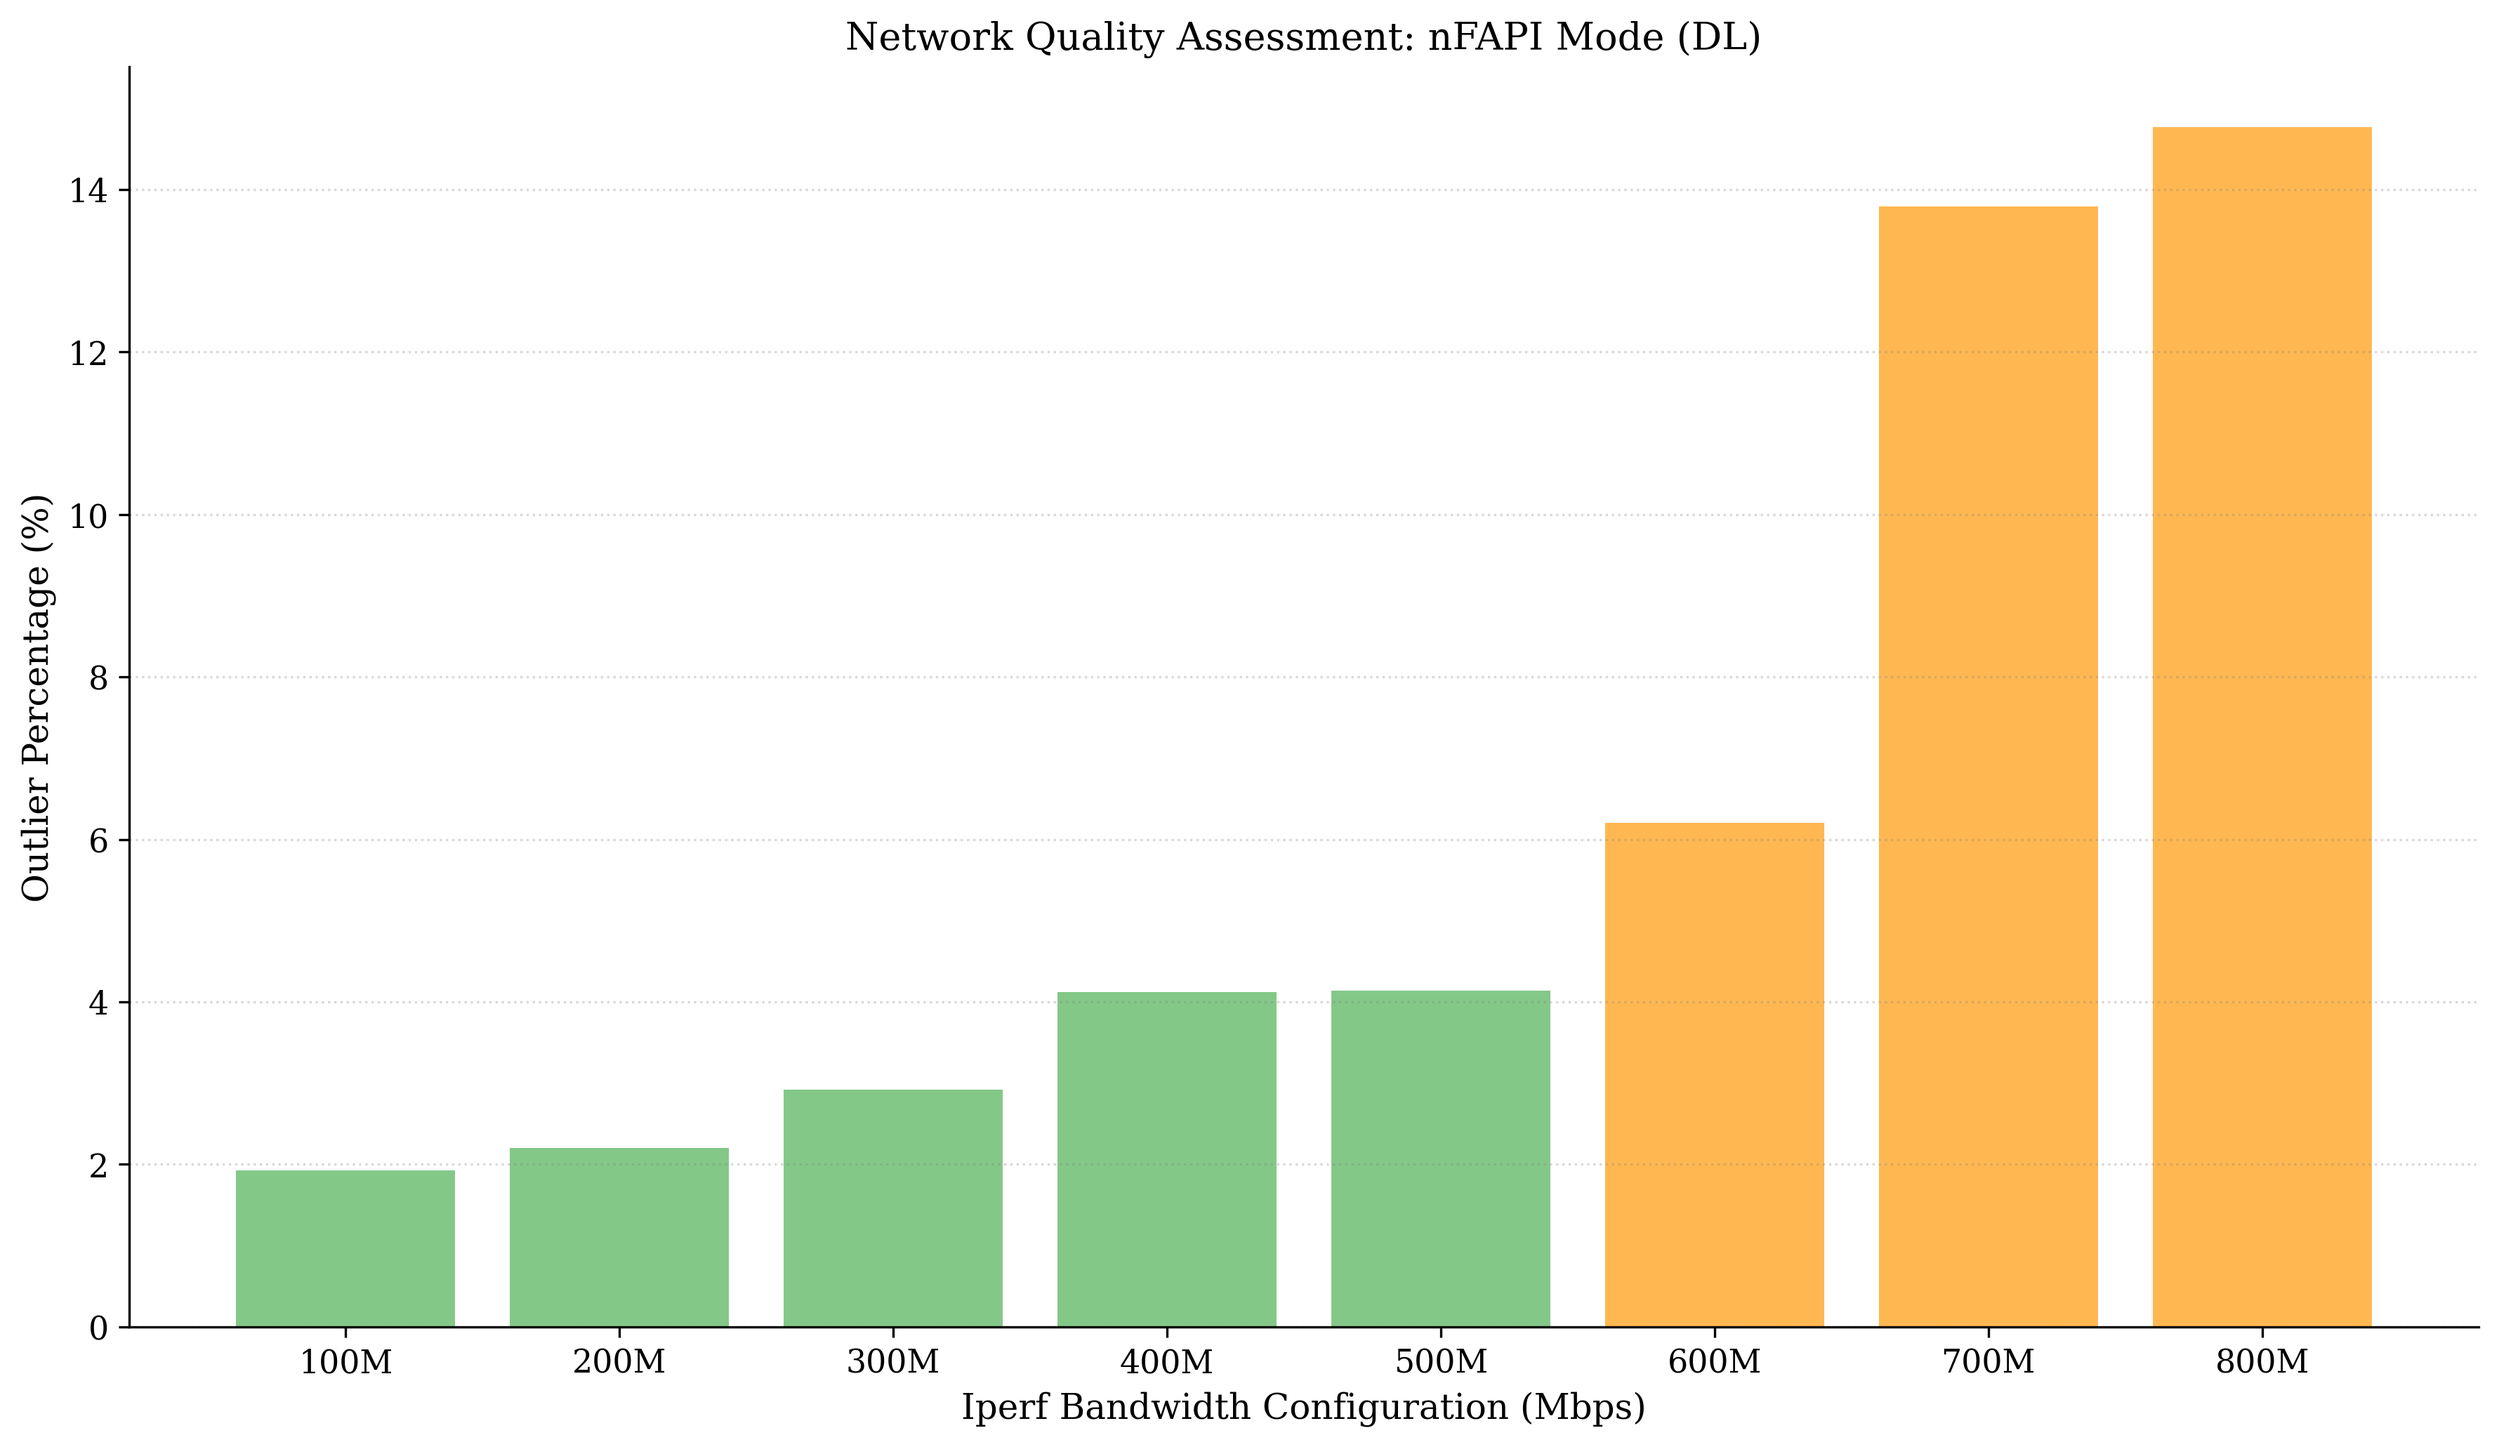
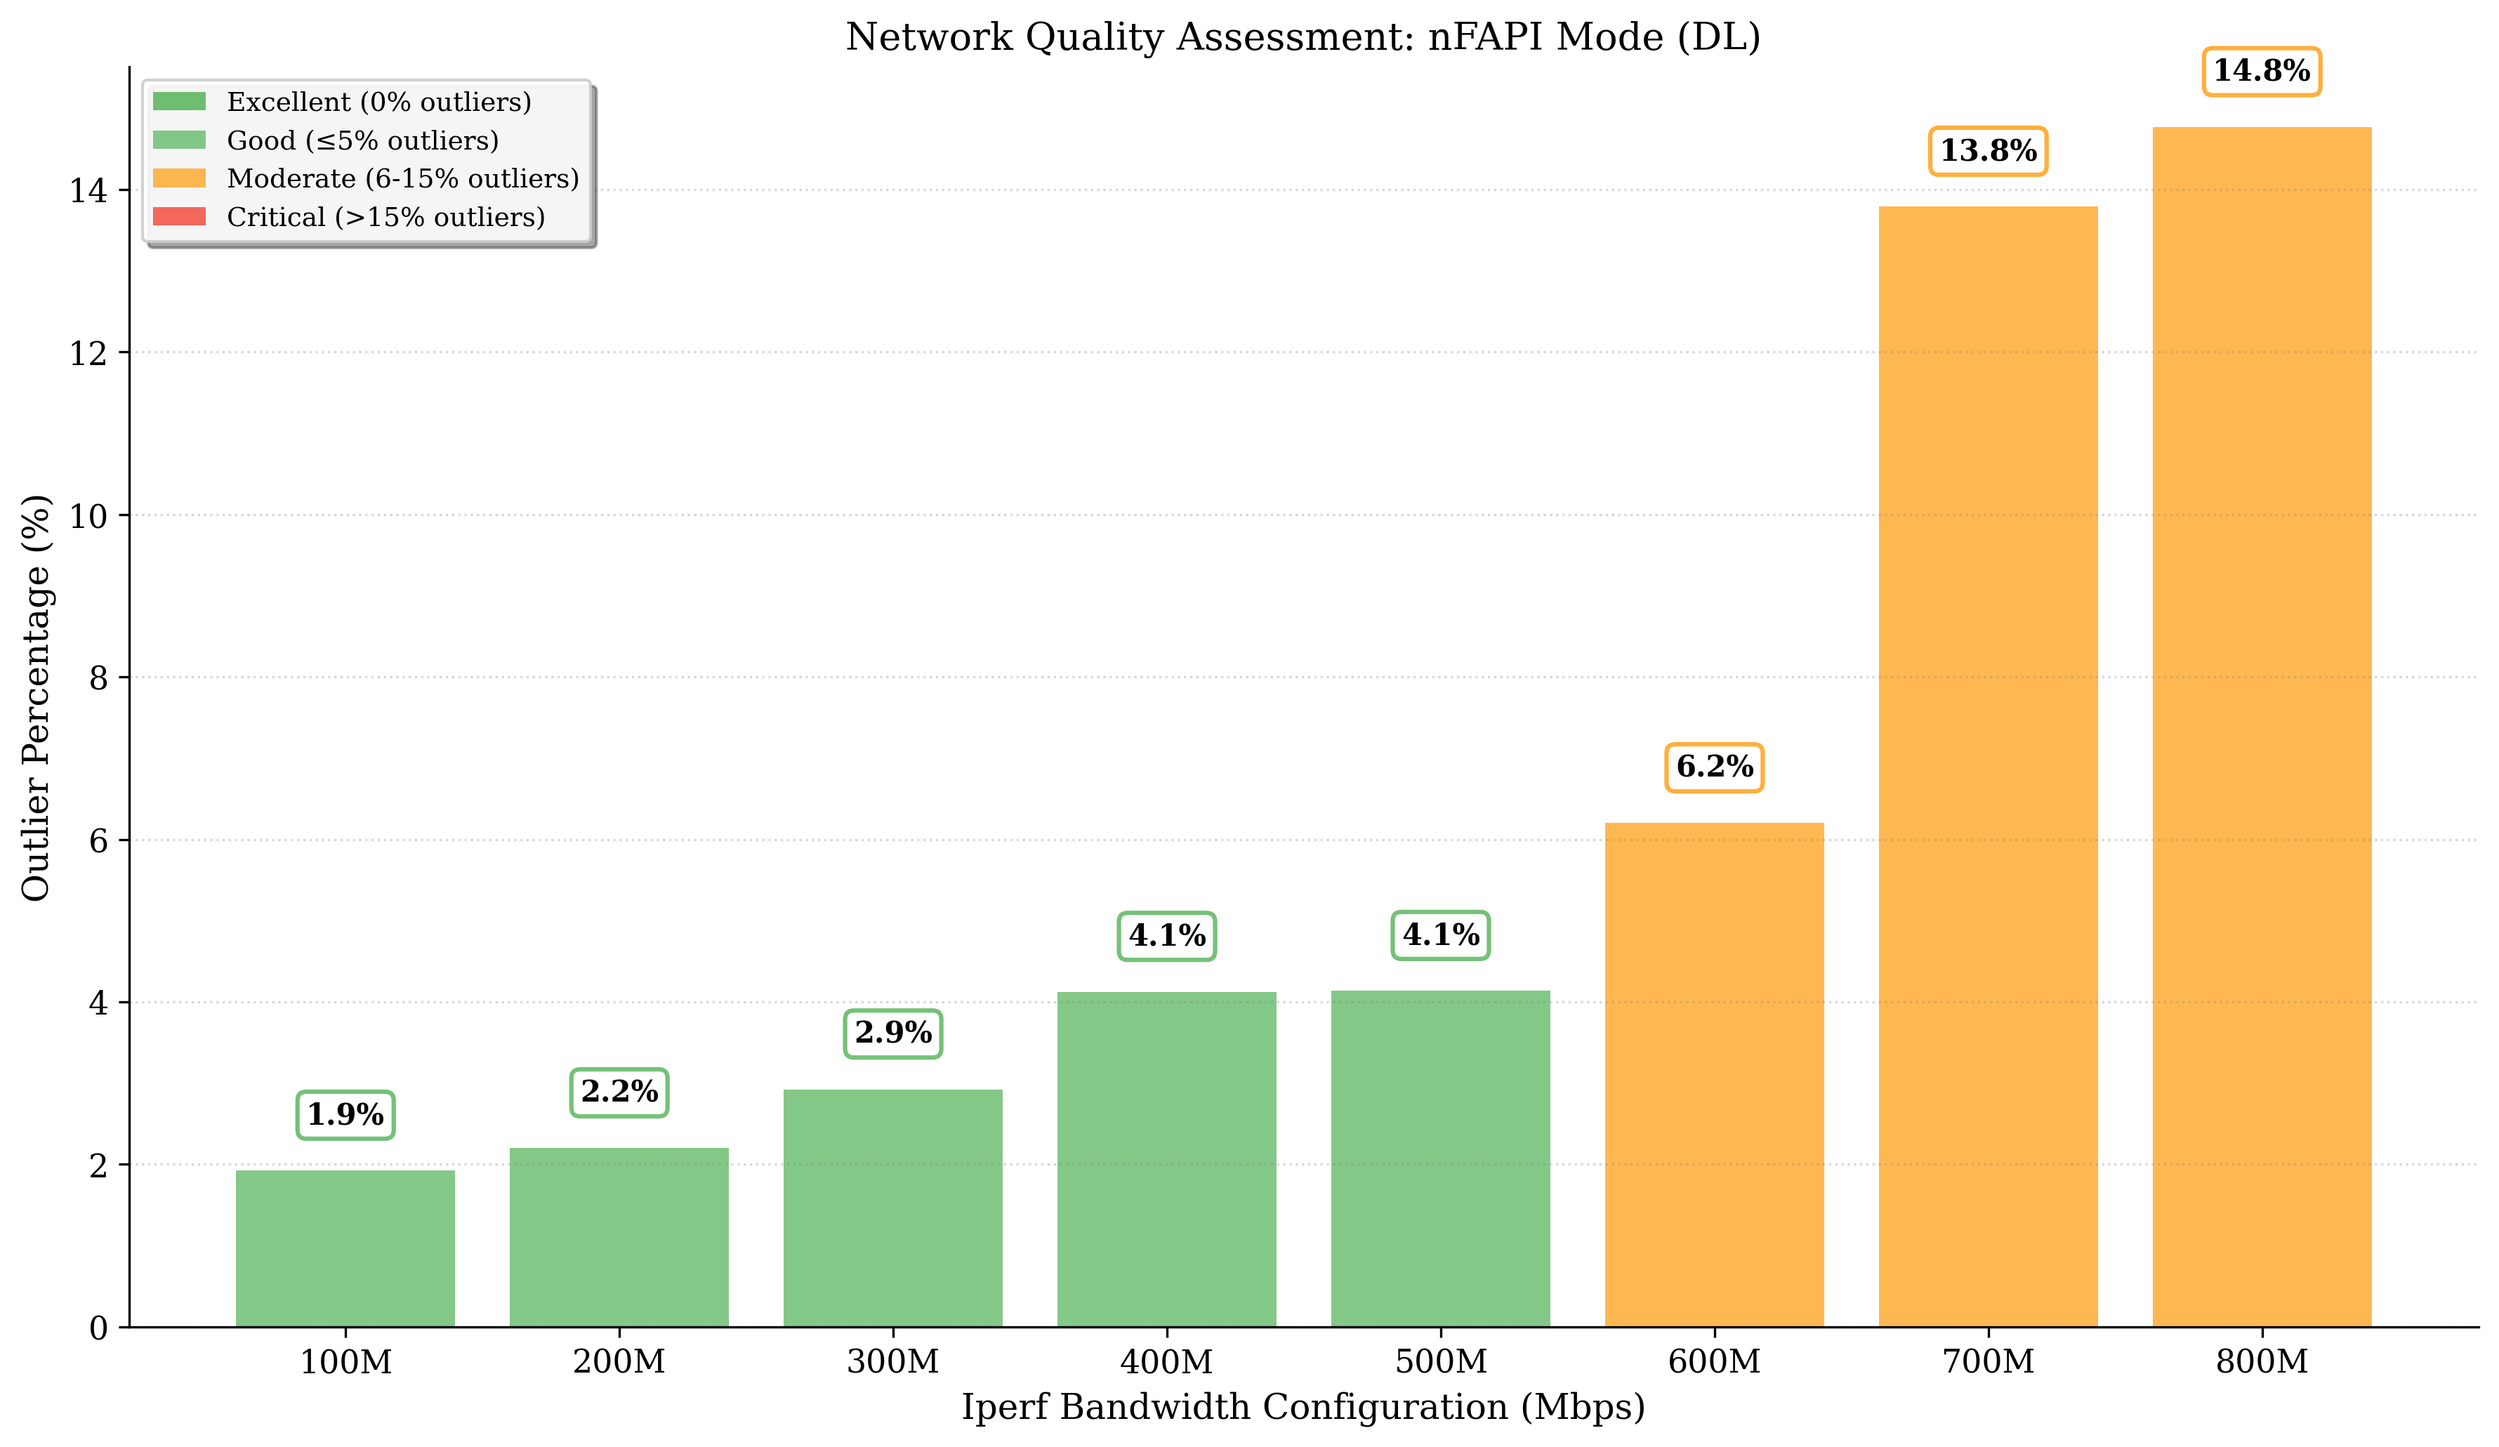
Refactor analysis scripts and update visualizations; remove outdated packet count analysis

diff --git a/scripts/analyze_ping_latency.py b/scripts/analyze_ping_latency.py
@@ -181,7 +181,27 @@ def create_quartile_analysis_plot(results_dict, output_dir, direction, mode):
         else:
             bar_colors.append('#F44336')    # Critical
     
-    plt.bar(labels, outlier_percentages, color=bar_colors, alpha=0.8)
+    bars = plt.bar(labels, outlier_percentages, color=bar_colors, alpha=0.8)
+    
+    # Add professional value labels on bars
+    for i, (bar, pct) in enumerate(zip(bars, outlier_percentages)):
+        if pct > 0:
+            label_y = min(pct + 1, 98)
+            ax.text(bar.get_x() + bar.get_width()/2, bar.get_height() + 0.5, f'{pct:.1f}%', 
+                   ha='center', va='bottom', fontsize=10, fontweight='bold',
+                   bbox=dict(boxstyle="round,pad=0.3", facecolor='white', 
+                            edgecolor=bar_colors[i], alpha=0.9, linewidth=1.5))
+    
+    # Add color legend for quality levels
+    from matplotlib.patches import Patch
+    legend_elements = [
+        Patch(facecolor='#4CAF50', alpha=0.8, label='Excellent (0% outliers)'),
+        Patch(facecolor='#66BB6A', alpha=0.8, label='Good (≤5% outliers)'),
+        Patch(facecolor='#FFA726', alpha=0.8, label='Moderate (6-15% outliers)'),
+        Patch(facecolor='#F44336', alpha=0.8, label='Critical (>15% outliers)')
+    ]
+    ax.legend(handles=legend_elements, loc='upper left', frameon=True, 
+             fancybox=True, shadow=True, framealpha=0.9)
     
     plt.xlabel('Iperf Bandwidth Configuration (Mbps)')
     plt.ylabel('Outlier Percentage (%)')
@@ -230,6 +250,63 @@ def find_ping_files(data_dir, bandwidth_val):
     
     return dl_file, ul_file
 
+def create_ping_summary_table(results_dict, output_dir, direction, mode):
+    """Create enhanced summary table for ping latency statistics"""
+    
+    plt.rcParams.update({
+        'font.family': 'serif',
+        'font.size': 11,
+        'axes.titlesize': 13,
+        'axes.labelsize': 12,
+    })
+    
+    fig, ax = plt.subplots(figsize=(14, 8))
+    ax.axis('off')
+    
+    bandwidths = sorted(results_dict.keys())
+    
+    # Create enhanced summary table with detailed breakdown
+    table_data = []
+    for bw in bandwidths:
+        stats = results_dict[bw]
+        row = [
+            f"{bw}M",
+            f"{stats['mean']:.2f}",
+            f"{stats['q2']:.2f}",  # Median
+            f"{stats['q1']:.2f}",
+            f"{stats['q3']:.2f}",
+            f"{stats['iqr']:.2f}",
+            f"{stats['std']:.2f}",
+            f"{stats['outlier_count']}"
+        ]
+        table_data.append(row)
+    
+    table = ax.table(
+        cellText=table_data,
+        colLabels=['Bandwidth', 'Mean (ms)', 'Median (ms)', 'Q1 (ms)', 'Q3 (ms)', 'IQR (ms)', 'Std Dev (ms)', 'Outliers'],
+        loc='center',
+        cellLoc='center'
+    )
+    table.auto_set_font_size(False)
+    table.set_fontsize(10)
+    table.scale(1.4, 2.0)
+    
+    # Style the table headers with professional colors matching CPU analysis
+    for i in range(len(table_data[0])):
+        table[(0, i)].set_facecolor('#2E86AB')
+        table[(0, i)].set_text_props(weight='bold', color='white')
+    
+    ax.set_title(f'Ping Latency Statistical Summary - {mode} Mode ({direction.upper()})', 
+                  fontsize=14, fontweight='bold', pad=25)
+    
+    plt.tight_layout()
+    output_file = output_dir / f'ping_latency_summary_table_{direction}.png'
+    plt.savefig(output_file, dpi=300, bbox_inches='tight', facecolor='white')
+    plt.show()
+    plt.close()
+    
+    return output_file
+
 def create_comprehensive_ping_analysis(ping_data, mode, output_dir):
     """Create comprehensive ping latency analysis"""
     
@@ -256,6 +333,11 @@ def create_comprehensive_ping_analysis(ping_data, mode, output_dir):
         # Create analysis plots
         try:
             analysis_files = create_quartile_analysis_plot(results_dict, output_dir, direction, mode)
+            
+            # Create summary table
+            table_file = create_ping_summary_table(results_dict, output_dir, direction, mode)
+            analysis_files.append(table_file)
+            
             print(f"✅ Analysis plots saved: {len(analysis_files)} files")
         except Exception as e:
             print(f"❌ Error creating analysis for {direction}: {e}")

diff --git a/scripts/analyze_packet_loss.py b/scripts/analyze_packet_loss.py
@@ -57,19 +57,19 @@ def find_ue_iperf_files(data_dir, bandwidth_val):
     return None
 
 def get_loss_rate_color(loss_rate):
-    """Get color based on loss rate (REVERSED ORDER - Red for good, Green for bad)"""
+    """Get color based on loss rate (Green for good, Red for bad)"""
     if loss_rate == 0:
-        return '#DC143C'  # Crimson (Best)
+        return '#2E8B57'  # Sea Green (Best)
     elif loss_rate <= 0.1:
-        return '#FF4500'  # Orange Red  
+        return '#32CD32'  # Lime Green  
     elif loss_rate <= 0.5:
-        return '#FF8C00'  # Dark Orange
-    elif loss_rate <= 1.0:
         return '#FFD700'  # Gold
+    elif loss_rate <= 1.0:
+        return '#FF8C00'  # Dark Orange
     elif loss_rate <= 3.0:
-        return '#32CD32'  # Lime Green
+        return '#FF4500'  # Orange Red
     else:
-        return '#2E8B57'  # Sea Green (Worst)
+        return '#DC143C'  # Crimson (Worst)
 
 def extract_mode_from_folder(folder_path):
     """Extract mode from folder name"""
@@ -166,14 +166,14 @@ def analyze_packet_loss(data_dir=None):
     plt.title(f'UE Network Packet Loss Analysis - {mode} Mode\nReceiver-Side Loss Rate Assessment', 
               fontsize=16, fontweight='bold', pad=25)
     
-    # Create custom legend for loss rate ranges (REVERSED)
+    # Create custom legend for loss rate ranges (Natural order)
     legend_elements = [
-        plt.Rectangle((0,0),1,1, facecolor='#DC143C', label='Perfect (0%)'),
-        plt.Rectangle((0,0),1,1, facecolor='#FF4500', label='Excellent (≤0.1%)'),
-        plt.Rectangle((0,0),1,1, facecolor='#FF8C00', label='Very Good (≤0.5%)'),
-        plt.Rectangle((0,0),1,1, facecolor='#FFD700', label='Good (≤1.0%)'),
-        plt.Rectangle((0,0),1,1, facecolor='#32CD32', label='Poor (≤3.0%)'),
-        plt.Rectangle((0,0),1,1, facecolor='#2E8B57', label='Critical (>3.0%)')
+        plt.Rectangle((0,0),1,1, facecolor='#2E8B57', label='Perfect (0%)'),
+        plt.Rectangle((0,0),1,1, facecolor='#32CD32', label='Excellent (≤0.1%)'),
+        plt.Rectangle((0,0),1,1, facecolor='#FFD700', label='Very Good (≤0.5%)'),
+        plt.Rectangle((0,0),1,1, facecolor='#FF8C00', label='Good (≤1.0%)'),
+        plt.Rectangle((0,0),1,1, facecolor='#FF4500', label='Poor (≤3.0%)'),
+        plt.Rectangle((0,0),1,1, facecolor='#DC143C', label='Critical (>3.0%)')
     ]
     
     plt.legend(handles=legend_elements, loc='upper left', fontsize=10, 

diff --git a/scripts/analyze_packet_count.py b/scripts/analyze_packet_count.py
@@ -163,9 +163,9 @@ def analyze_packet_count(data_dir=None):
             plt.text(i - width/2 - 0.05, cn_val + label_spacing, 
                     format_large_number(cn_val), 
                     ha='center', va='bottom', fontsize=9, fontweight='bold',
-                    bbox=dict(boxstyle="round,pad=0.3", facecolor='white', 
-                             edgecolor='#C85A90', alpha=0.9),
-                    rotation=0)
+                    bbox=dict(boxstyle="round,pad=0.3", facecolor='#C85A90', 
+                             edgecolor='white', alpha=0.9),
+                    rotation=0, color='white')
         
         # UE labels - positioned above bars with formatted numbers
         if ue_val > 0:
@@ -173,9 +173,9 @@ def analyze_packet_count(data_dir=None):
             plt.text(i + width/2 + 0.05, ue_val + label_spacing, 
                     format_large_number(ue_val), 
                     ha='center', va='bottom', fontsize=9, fontweight='bold',
-                    bbox=dict(boxstyle="round,pad=0.3", facecolor='white', 
-                             edgecolor='#5BA3C7', alpha=0.9),
-                    rotation=0)
+                    bbox=dict(boxstyle="round,pad=0.3", facecolor='#5BA3C7', 
+                             edgecolor='white', alpha=0.9),
+                    rotation=0, color='white')
     plt.xlabel('Bandwidth Configuration', fontsize=14, fontweight='bold')
     plt.ylabel('Packet Count', fontsize=14, fontweight='bold')
     plt.title(f'Network Packet Count Analysis - {mode} Mode\nCN Transmission vs UE Reception Comparison', 

diff --git a/scripts/run_all_analysis.py b/scripts/run_all_analysis.py
@@ -21,11 +21,11 @@ def get_available_analyses():
             'name': 'Throughput Analysis',
             'description': 'Analyze CN transmission vs UE reception throughput'
         },
-        'packet_count': {
-            'script': script_dir / 'analyze_packet_count.py', 
-            'name': 'Packet Count Analysis',
-            'description': 'Compare packet counts between CN and UE'
-        },
+        # 'packet_count': {
+        #     'script': script_dir / 'analyze_packet_count.py', 
+        #     'name': 'Packet Count Analysis',
+        #     'description': 'Compare packet counts between CN and UE'
+        # },
         'packet_loss': {
             'script': script_dir / 'analyze_packet_loss.py',
             'name': 'Packet Loss Analysis', 
